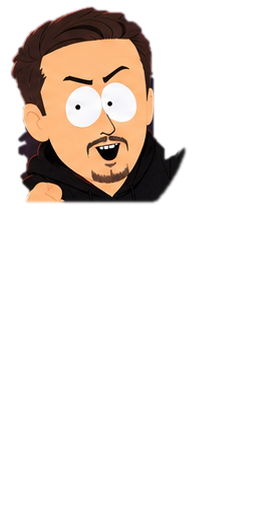
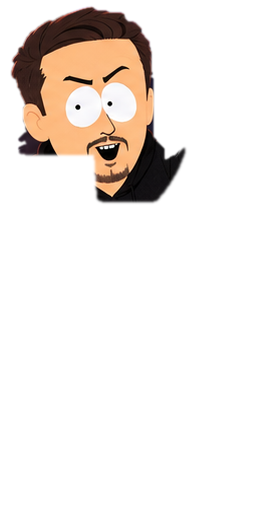
Finish handoff: rebuild assets, instant pose swaps with a pop
- Regenerate sprites with the handoff's Carra chin and Gary hand fixes
- Snapshot crossfade still double-imaged whole characters for ~3 frames;
  drawings now swap on the beat with a small squash-and-stretch pop

Claude-Session: https://claude.ai/code/session_01Dp2R7D8dpgJrJKu2Z7FzDb

Changed region(s): [[0.0593, 0.2935, 0.3852, 0.411]]

diff --git a/render/render.py b/render/render.py
@@ -839,6 +839,8 @@ def _render(t, force=None, shot=None, scene_=None):
             k2 = 'ABCD'[int(pose_at(cid, b - d_, k, t - d_ * P)['pose'])]
             if k2 == 'D' and ms.get('holder') == cid and cid == 'nev': k2 = 'A'
             if k2 != key and not champ: prev_spr, prev_kk, pw = SPR[c[k2]], c['k'][k2] * (1 + 0.08 * fs), w_; break
+        if prev_spr is not None:  # pop on the drawing swap (squash, then settle)
+            pop_ = 1 - pw; p['sy'] *= 1 - 0.05 * pop_; p['sx'] *= 1 + 0.03 * pop_
         chars[cid] = dict(prev_spr=prev_spr, prev_kk=prev_kk, pw=pw, p=p, spr=spr, kk=c['k'][key] * (1 + 0.08 * fs), fx=c['foot'][0] + p['x'], fy=c['foot'][1] + 60 * fs, lift=p['y'] + y_extra, hr=hr, hy=hy)
     def local_to_src(ch, px, py):
         spr = ch['spr']; p = ch['p']; kk = ch['kk']
@@ -1050,19 +1052,8 @@ def _render(t, force=None, shot=None, scene_=None):
     frame += cv2.resize(cv2.GaussianBlur(add, (0, 0), 1.2 * RS), (OW, OH))
 
     def draw_char(dst, cid, refl=None):
-        ch = chars[cid]
-        if ch.get('prev_spr') is not None and ch['pw'] < 1:  # dissolve whole puppet snapshots, not its overlapping parts
-            # Important: fading body/head/arms independently makes their overlap semi-transparent.
-            # Render each complete pose at full opacity against the same base, then crossfade the two snapshots.
-            keep = (ch['spr'], ch['kk'])
-            base = dst.copy()
-            ch['spr'], ch['kk'] = ch['prev_spr'], ch['prev_kk']
-            prev_frame = base.copy(); _draw_char(prev_frame, cid, refl)
-            ch['spr'], ch['kk'] = keep
-            next_frame = base.copy(); _draw_char(next_frame, cid, refl)
-            w_ = ch['pw']
-            dst[:] = prev_frame * (1 - w_) + next_frame * w_
-            return
+        # Drawings swap instantly on the beat, like cut-out animation: crossfading two different drawings
+        # (even as opaque snapshots) shows a double image. The swap gets a small squash-and-stretch pop instead.
         _draw_char(dst, cid, refl)
     def _draw_char(dst, cid, refl=None):
         ch = chars[cid]; spr = ch['spr']; p = ch['p']; fd = ch.get('fade', 1.0)

diff --git a/CLAUDE_HANDOFF_2026-09-24.md b/CLAUDE_HANDOFF_2026-09-24.md
@@ -98,3 +98,10 @@ Use a 1080p review render first. Only spend the time on `QUALITY=1080p60` or `QU
 7. Commit any generated asset changes and final cleanup back to `main`.
 
 No full render was completed or visually validated during this recovery session, so that QA/render pass is the main unfinished work.
+
+## Status (Claude, follow-up)
+
+Done:
+- Rebuilt the assets with the handoff fixes. Carra's chin now rotates with his head, and Gary's hands stay on the arm/body layer during head tilts. Both were checked visually on all eight Carra/Gary drawings.
+- The snapshot crossfade for pose changes still showed a double image of the whole character for ~3 frames. Drawings now swap instantly on the beat (cut-out style) with a small squash-and-stretch pop, so there is no ghosting.
+- Contact sheet reviewed and full 1080p render produced.
